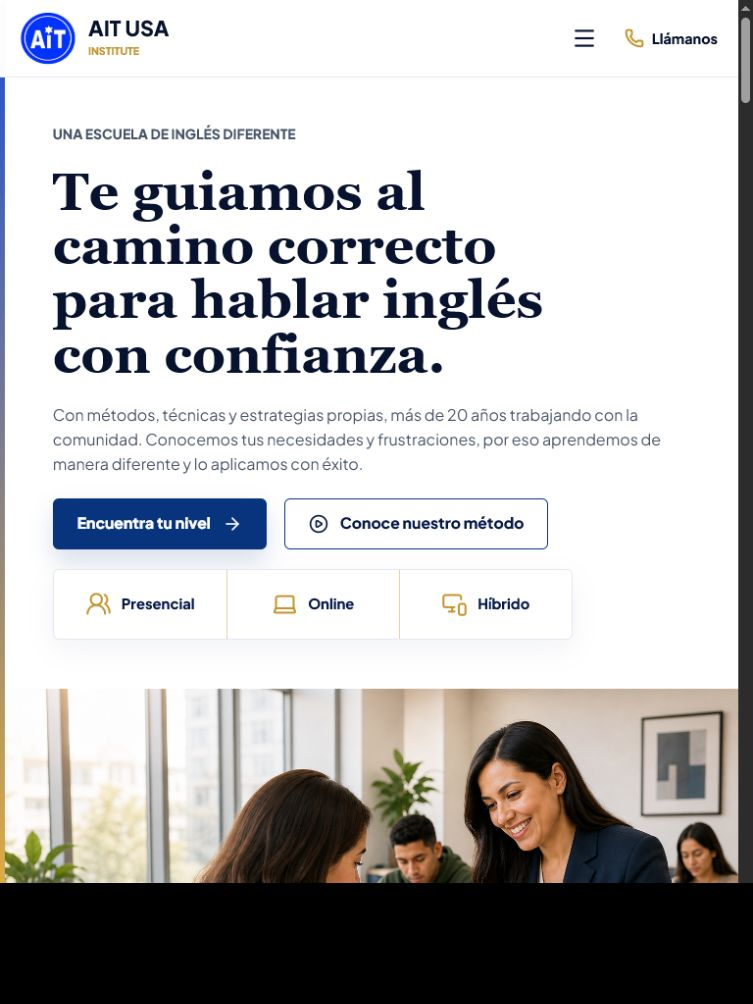
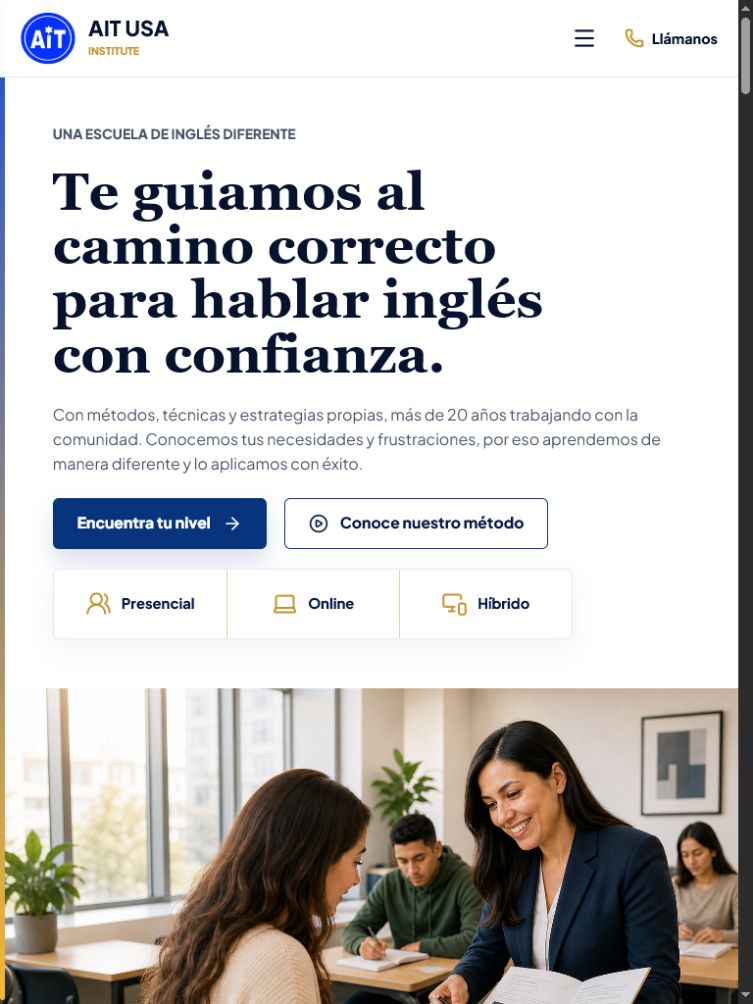
Polish tablet hero proof layout

diff --git a/src/styles.css b/src/styles.css
@@ -2648,6 +2648,29 @@ textarea {
   }
 }
 
+@media (max-width: 899px) {
+  .hero__proof-inner {
+    grid-template-columns: 1fr;
+    padding: 8px clamp(28px, 7vw, 56px);
+  }
+
+  .hero__proof-inner article {
+    grid-template-columns: 44px minmax(0, 1fr);
+    gap: 16px;
+    padding: 20px 0;
+  }
+
+  .hero__proof-inner article + article {
+    border-top: 1px solid rgba(196, 147, 45, 0.56);
+    border-left: 0;
+  }
+
+  .hero__proof-inner svg {
+    width: 42px;
+    height: 42px;
+  }
+}
+
 @media (max-width: 760px) {
   .site-header {
     min-height: 72px;

diff --git a/design-qa.md b/design-qa.md
@@ -92,6 +92,12 @@ The implementation preserves the source hierarchy: compact institute header, dom
 - Fix: reduced only the mobile display scale, tightened vertical gaps, shortened button height, and preserved all approved copy.
 - Post-fix evidence: `docs/design/evidence/hero-mobile-390x844.png`; the classroom scene begins around 671px and is visibly established above the fold.
 
+### Pass 3
+
+- P2: at 768px portrait width, the three proof statements remained in desktop columns and wrapped too aggressively.
+- Fix: stacked the proof statements below 900px while preserving the desktop three-column band and mobile spacing.
+- Post-fix evidence: `docs/design/evidence/hero-tablet-768x1024.png`; proof headings and descriptions now retain a comfortable reading measure with consistent icon alignment.
+
 ## Follow-Up Polish
 
 - P3: the source concept includes generated AIT branding inside the classroom image. The implementation removes it because the source asset was flattened and its text could not remain crisp or accessible across responsive crops.
